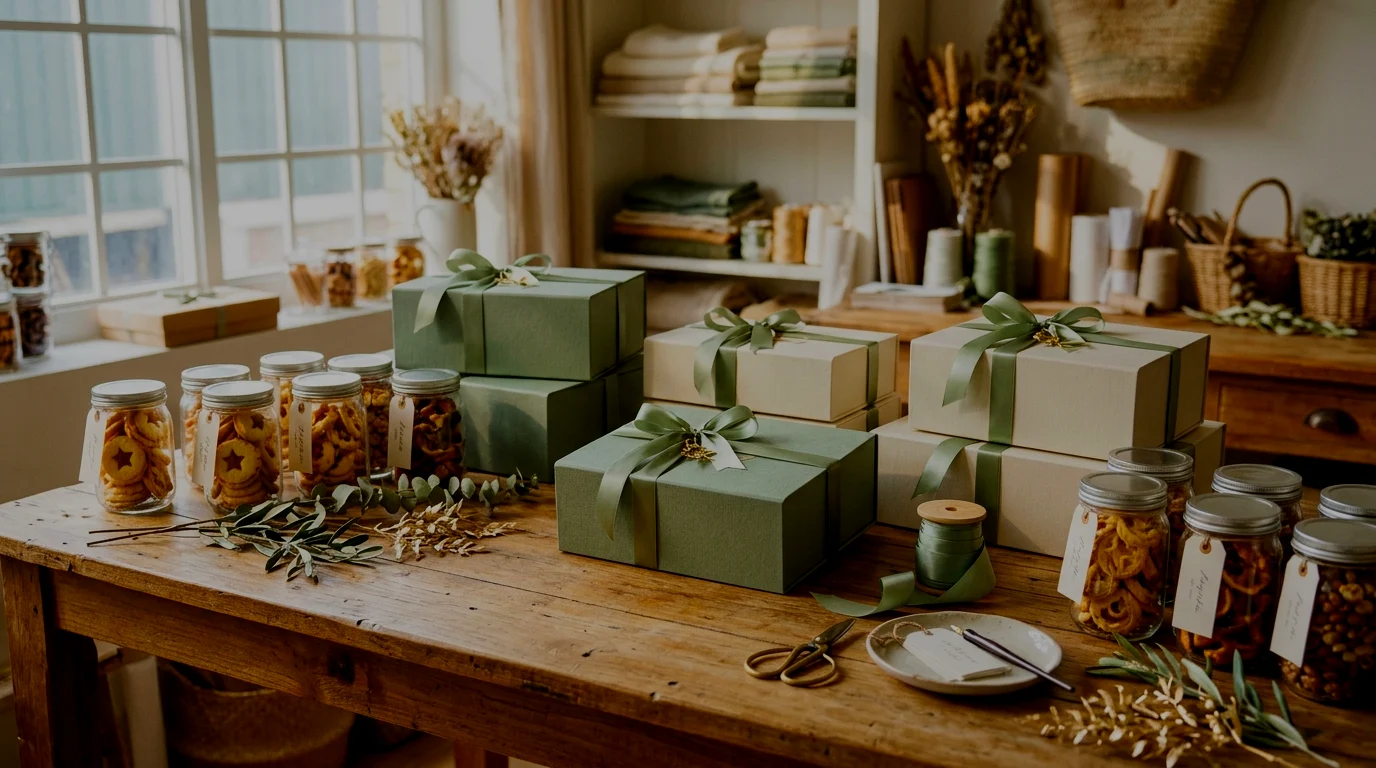
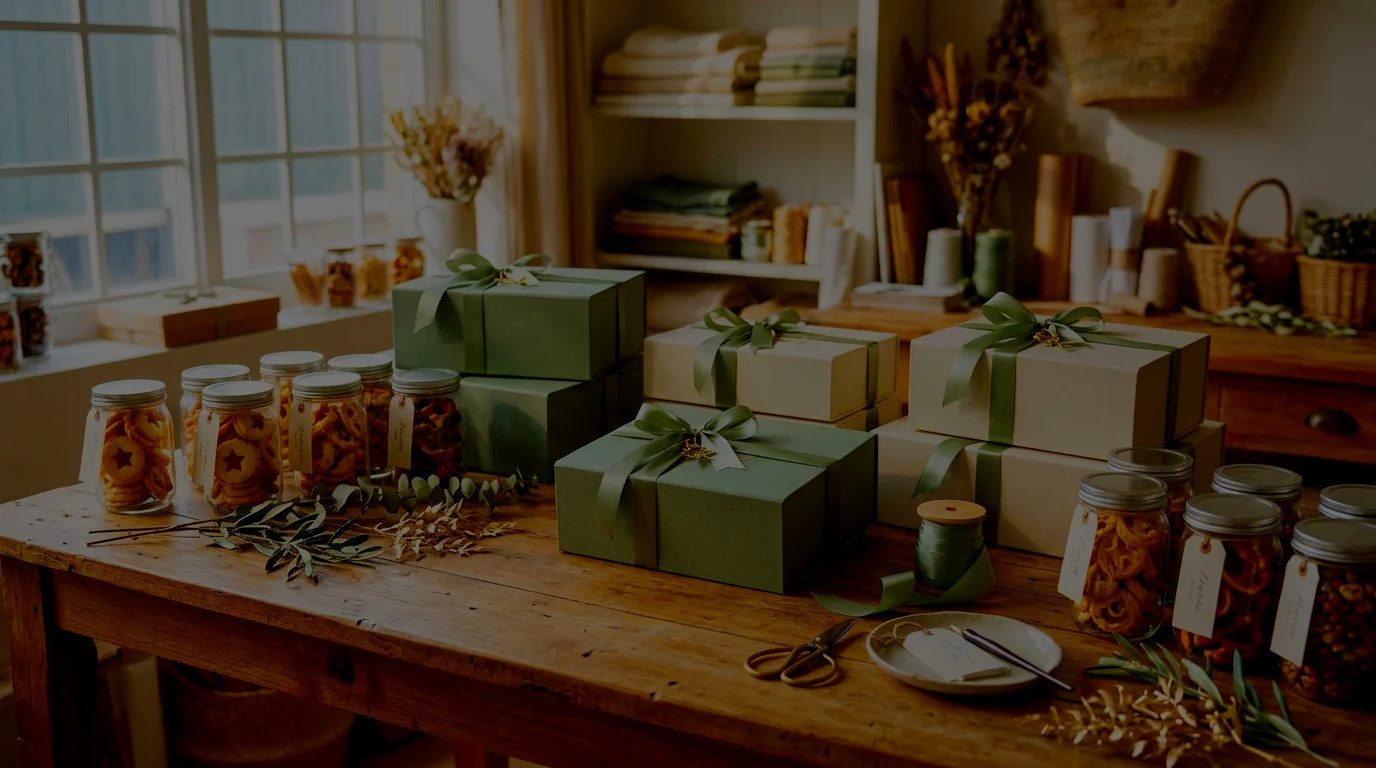
fix(tentang): gelapkan foto background workshop dan hilangkan bayangan cream pada teks

diff --git a/tentang.html b/tentang.html
@@ -839,20 +839,92 @@
     }
 
     .hl-page-header--tentang {
-      background-color: var(--hl-bg) !important;
-      background-image: linear-gradient(180deg, rgba(234, 240, 233, 0.72) 0%, rgba(234, 240, 233, 0.42) 50%, rgba(234, 240, 233, 0.75) 100%), url('assets/images/tentang-bg-hampers.webp') !important;
+      background-color: #14221d !important;
+      background-image: linear-gradient(180deg, rgba(14, 26, 22, 0.72) 0%, rgba(14, 26, 22, 0.48) 50%, rgba(14, 26, 22, 0.80) 100%), url('assets/images/tentang-bg-hampers.webp') !important;
       background-size: cover !important;
       background-position: center 35% !important;
       background-repeat: no-repeat !important;
-      border-bottom: 1px solid var(--hl-border);
-      padding-block: clamp(3.25rem, 6vw, 4.75rem);
+      border-bottom: 1px solid rgba(255, 255, 255, 0.1);
+      padding-block: clamp(3.5rem, 6.5vw, 5.25rem);
       margin-bottom: clamp(2.5rem, 4.5vw, 4rem);
       position: relative;
     }
 
+    .hl-page-header--tentang .hl-breadcrumb {
+      display: inline-flex;
+      align-items: center;
+      background: rgba(255, 255, 255, 0.16) !important;
+      backdrop-filter: blur(8px);
+      -webkit-backdrop-filter: blur(8px);
+      border: 1px solid rgba(255, 255, 255, 0.28) !important;
+      border-radius: 100px;
+      padding: .35rem .95rem;
+      margin-bottom: 1.25rem;
+      list-style: none;
+    }
+
+    .hl-page-header--tentang .hl-breadcrumb a {
+      color: #eaf0e9 !important;
+      text-decoration: none;
+    }
+
+    .hl-page-header--tentang .hl-breadcrumb a:hover {
+      color: #ffffff !important;
+    }
+
+    .hl-page-header--tentang .hl-breadcrumb li+li::before {
+      content: '›' !important;
+      margin: 0 .4rem;
+      color: rgba(255, 255, 255, 0.55) !important;
+    }
+
+    .hl-page-header--tentang .hl-breadcrumb [aria-current=page] {
+      color: #ffffff !important;
+      font-weight: 600;
+    }
+
+    .hl-page-header--tentang .hl-eyebrow {
+      display: inline-block;
+      background: rgba(255, 255, 255, 0.16) !important;
+      backdrop-filter: blur(6px);
+      -webkit-backdrop-filter: blur(6px);
+      border: 1px solid rgba(255, 255, 255, 0.28) !important;
+      color: #f4f7f4 !important;
+      font-size: .82rem;
+      font-weight: 700;
+      letter-spacing: .14em;
+      padding: .32rem 1rem;
+      border-radius: 100px;
+      margin-bottom: 1rem;
+    }
+
+    .hl-page-header--tentang .hl-heading {
+      font-size: clamp(1.9rem, 4vw, 2.85rem) !important;
+      font-weight: 700;
+      line-height: 1.24;
+      letter-spacing: -.02em;
+      margin-bottom: .95rem;
+      color: #ffffff !important;
+      text-shadow: none !important;
+      max-width: 840px;
+      margin-inline: auto;
+      text-wrap: balance;
+    }
+
+    .hl-page-header--tentang .hl-page-header__desc {
+      color: #f0f4f1 !important;
+      font-size: clamp(1.02rem, 1.8vw, 1.15rem);
+      font-weight: 400;
+      max-width: 700px;
+      line-height: 1.72;
+      margin-inline: auto;
+      margin-bottom: 0;
+      text-shadow: none !important;
+      text-wrap: pretty;
+    }
+
     .hl-page-header {
       background-color: var(--hl-bg);
-      background-image: linear-gradient(180deg, rgba(234, 240, 233, 0.88) 0%, rgba(234, 240, 233, 0.74) 50%, rgba(234, 240, 233, 0.90) 100%), url('assets/images/tentang-bg-hampers.webp');
       background-size: cover;
       background-position: center 32%;
       background-repeat: no-repeat;
@@ -869,7 +941,7 @@
       letter-spacing: -.02em;
       margin-bottom: .85rem;
       color: var(--hl-text);
-      text-shadow: 0 1px 2px rgba(234, 240, 233, 0.95);
+      text-shadow: none;
       max-width: 820px;
       margin-inline: auto;
       text-wrap: balance
@@ -878,7 +950,7 @@
     .hl-page-header__desc {
       color: var(--hl-text);
       font-weight: 500;
-      text-shadow: 0 1px 2px rgba(234, 240, 233, 0.95);
+      text-shadow: none;
       font-size: clamp(1rem, 1.8vw, 1.125rem);
       max-width: 680px;
       line-height: 1.7;
@@ -886,7 +958,6 @@
       margin-bottom: 0;
       text-wrap: pretty
     }
-
     .hl-breadcrumb {
       display: inline-flex;
       align-items: center;

diff --git a/schema-audit-report.md b/schema-audit-report.md
@@ -1,6 +1,6 @@
 # 📊 Laporan Audit Structured Data & JSON-LD
 **Proyek:** Hampers Lebaran (*hamperslebaran.biz.id*)  
-**Tanggal Audit:** 2026-11-09 03:38:33 WIB  
+**Tanggal Audit:** 2026-11-09 04:40:16 WIB  
 **Engine Validasi:** `@adobe/structured-data-validator` v1.7.0, `@marbec/web-auto-extractor` v2.2.1, & Schema.org Specification  
 
 ---
